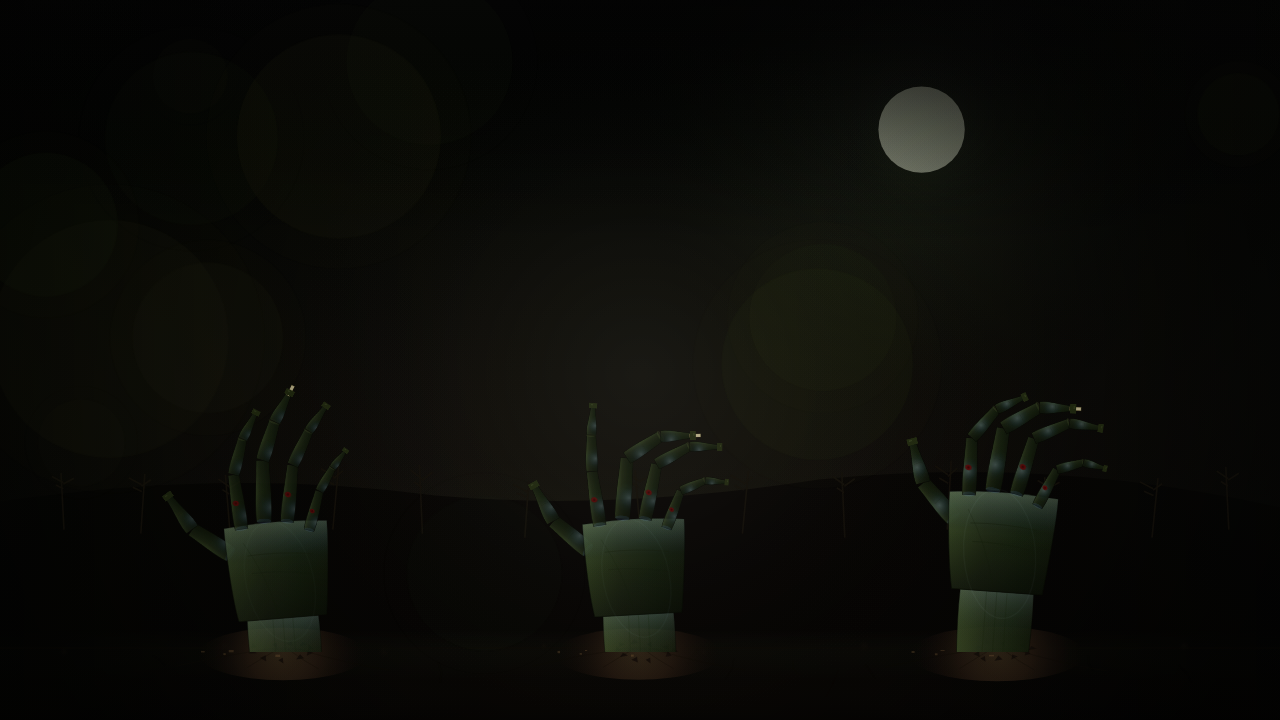
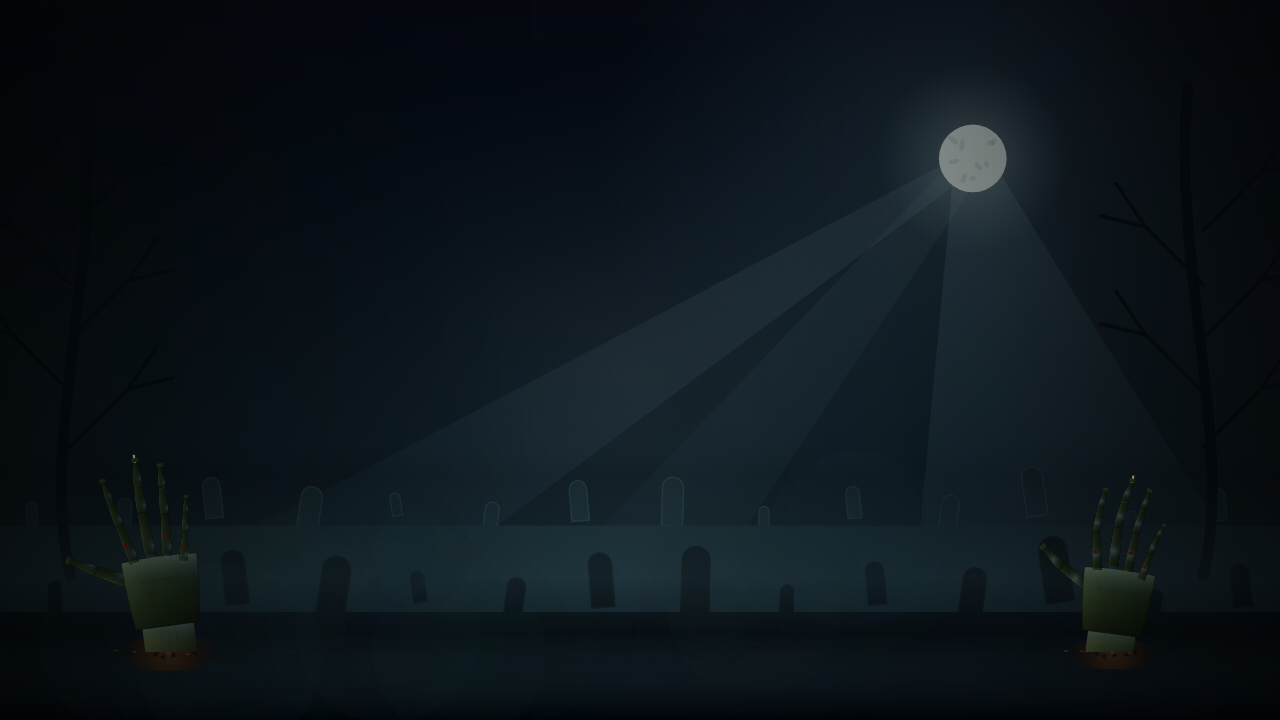
Backlight Zombie arena with moonlit cemetery scenery

diff --git a/game/js/render/background-renderer.js b/game/js/render/background-renderer.js
@@ -329,36 +329,36 @@ class BackgroundRenderer {
                 for (let i = 0; i < 12; i++) {
                     this.fogParticles.push({
                         x: Math.random() * W,
-                        y: Math.random() * H,
-                        size: Math.random() * 90 + 36,
+                        y: H * (0.72 + Math.random() * 0.20),
+                        size: Math.random() * 70 + 36,
                         speed: Math.random() * 3.2 + 0.4,
                         alpha: Math.random() * 0.10 + 0.03,
                         drift: (Math.random() - 0.5) * 0.35,
-                        fogHue: 62 + Math.random() * 26,
+                        fogHue: 185 + Math.random() * 15,
                         sprite: null,
                     });
                 }
                 this.lightLayers.push(this._makeLight('radial', {
-                    x: W * 0.72, y: H * 0.18,
+                    x: W * 0.76, y: H * 0.22,
                     radius: Math.min(W, H) * 0.34,
-                    color: 'rgba(190,215,170,0.06)',
+                    color: 'rgba(170,210,225,0.06)',
                     pulseSpeed: 0.28, pulseMagnitude: 0.05,
                 }));
                 this.lightLayers.push(this._makeLight('radial', {
                     x: W * 0.42, y: H * 0.72,
                     radius: Math.min(W, H) * 0.48,
-                    color: 'rgba(85,110,58,0.05)',
+                    color: 'rgba(75,120,140,0.05)',
                     pulseSpeed: 0.55, pulseMagnitude: 0.10,
                 }));
                 this.lightLayers.push(this._makeLight('linear', {
                     x1: 0, y1: H * 0.72, x2: 0, y2: H,
-                    color: 'rgba(74,96,46,0.06)',
+                    color: 'rgba(70,110,130,0.06)',
                 }));
 
-                [0.22, 0.50, 0.78].forEach((xf, i) => {
+                [0.13, 0.87].forEach((xf, i) => {
                     this.zombieHands.push({
                         xf: Math.max(0.08, Math.min(0.92, xf + (Math.random() - 0.5) * 0.02)),
-                        scale: 0.92 + Math.random() * 0.18 + i * 0.03,  // larger hands for detail
+                        scale: 0.64 + Math.random() * 0.12,  // frame the court, leaving the ball lane open
                         riseBase: 0.44 + Math.random() * 0.16,
                         riseAmp: 0.06 + Math.random() * 0.08,
                         riseSpeed: 0.22 + Math.random() * 0.12,
@@ -691,7 +691,7 @@ class BackgroundRenderer {
             const p = this.fogParticles[i];
             p.y += p.speed * dt;
             p.x += p.drift * dt;
-            if (p.y > H + p.size) { p.y = -p.size; p.x = Math.random() * W; }
+            if (p.y > H + p.size) { p.y = this.mode === 'zombie' ? H * 0.72 : -p.size; p.x = Math.random() * W; }
             if (p.x < -p.size) p.x = W + p.size;
             if (p.x > W + p.size) p.x = -p.size;
         }
@@ -1617,129 +1617,112 @@ class BackgroundRenderer {
 
         const zctx = this._zombieStaticCtx;
         if (!zctx) return null;
-        const horizonY = h * 0.68;
-
+        // All scenery and volumetric-looking light are baked on resize, never
+        // blurred or rebuilt in the frame loop. Keep the central ball lane dark.
         zctx.clearRect(0, 0, w, h);
-
         const sky = zctx.createLinearGradient(0, 0, 0, h);
-        sky.addColorStop(0, '#020301');
-        sky.addColorStop(0.18, '#060804');
-        sky.addColorStop(0.52, '#0f0d09');
-        sky.addColorStop(0.76, '#14100c');
-        sky.addColorStop(1, '#0c0a07');
+        sky.addColorStop(0, '#030710');
+        sky.addColorStop(0.62, '#10212a');
+        sky.addColorStop(1, '#030709');
         zctx.fillStyle = sky;
         zctx.fillRect(0, 0, w, h);
-
-        // ── Draw Moon in static layer ──
-        const moonX = w * 0.72;
-        const moonY = h * 0.18;
-        const moonRadius = Math.min(w, h) * 0.06;
-        zctx.fillStyle = '#e8e8d8';
-        zctx.beginPath();
-        zctx.arc(moonX, moonY, moonRadius, 0, Math.PI * 2);
-        zctx.fill();
-
-        const moonGlow = zctx.createRadialGradient(moonX, moonY, 0, moonX, moonY, Math.min(w, h) * 0.42);
-        moonGlow.addColorStop(0, 'rgba(185,210,160,0.22)');
-        moonGlow.addColorStop(0.25, 'rgba(148,166,125,0.12)');
-        moonGlow.addColorStop(0.65, 'rgba(90,110,68,0.05)');
-        moonGlow.addColorStop(1, 'transparent');
-        zctx.fillStyle = moonGlow;
+        const moonX = w * 0.76, moonY = h * 0.22;
+        const unit = Math.min(w, h);
+        const halo = zctx.createRadialGradient(moonX, moonY, unit * 0.025, moonX, moonY, unit * 0.52);
+        halo.addColorStop(0, 'rgba(194,228,235,0.42)');
+        halo.addColorStop(0.22, 'rgba(113,166,186,0.19)');
+        halo.addColorStop(1, 'rgba(64,112,140,0)');
+        zctx.fillStyle = halo;
         zctx.fillRect(0, 0, w, h);
-
-        const horizonGlow = zctx.createLinearGradient(0, horizonY - h * 0.08, 0, groundY + h * 0.08);
-        horizonGlow.addColorStop(0, 'transparent');
-        horizonGlow.addColorStop(0.4, 'rgba(50,66,36,0.14)');
-        horizonGlow.addColorStop(0.7, 'rgba(48,32,14,0.18)');
-        horizonGlow.addColorStop(1, 'rgba(15,10,5,0.35)');
-        zctx.fillStyle = horizonGlow;
-        zctx.fillRect(0, horizonY - h * 0.12, w, h - horizonY + h * 0.12);
-
-        const soil = zctx.createLinearGradient(0, groundY - 24, 0, h);
-        soil.addColorStop(0, 'rgba(30,22,12,0.65)');
-        soil.addColorStop(0.18, 'rgba(42,30,16,0.92)');
-        soil.addColorStop(0.65, '#181008');
-        soil.addColorStop(1, '#0b0805');
-        zctx.fillStyle = soil;
-        zctx.fillRect(0, groundY - 24, w, h - groundY + 24);
-
-        zctx.fillStyle = 'rgba(8,6,4,0.98)';
-        zctx.beginPath();
-        zctx.moveTo(0, horizonY + 12);
-        zctx.quadraticCurveTo(w * 0.18, horizonY - 22, w * 0.34, horizonY + 6);
-        zctx.quadraticCurveTo(w * 0.48, horizonY + 22, w * 0.64, horizonY - 10);
-        zctx.quadraticCurveTo(w * 0.82, horizonY - 34, w, horizonY + 18);
-        zctx.lineTo(w, h);
-        zctx.lineTo(0, h);
-        zctx.closePath();
-        zctx.fill();
-
-        // Front Fog
-        const frontFog = zctx.createLinearGradient(0, groundY - 18, 0, h);
-        frontFog.addColorStop(0, 'rgba(120,140,90,0)');
-        frontFog.addColorStop(0.24, 'rgba(84,102,60,0.07)');
-        frontFog.addColorStop(0.55, 'rgba(36,30,18,0.10)');
-        frontFog.addColorStop(1, 'rgba(10,8,6,0.26)');
-        zctx.fillStyle = frontFog;
-        zctx.fillRect(0, groundY - 18, w, h - groundY + 18);
-
-        // Vignette
-        const vig = zctx.createRadialGradient(w / 2, h / 2, h * 0.22, w / 2, h / 2, h * 0.92);
-        vig.addColorStop(0, 'transparent');
-        vig.addColorStop(1, 'rgba(0,0,0,0.82)');
-        zctx.fillStyle = vig;
-        zctx.fillRect(0, 0, w, h);
-
-        // Top Black gradient
-        const topBlack = zctx.createLinearGradient(0, 0, 0, h * 0.34);
-        topBlack.addColorStop(0, 'rgba(0,0,0,0.85)');
-        topBlack.addColorStop(0.7, 'rgba(0,0,0,0.3)');
-        topBlack.addColorStop(1, 'transparent');
-        zctx.fillStyle = topBlack;
-        zctx.fillRect(0, 0, w, h * 0.34);
-
-        // Static tree silhouettes
-        zctx.save();
-        zctx.strokeStyle = 'rgba(20,16,10,0.95)';
-        zctx.lineWidth = 1.6;
-        const treeX = [0.05, 0.11, 0.18, 0.26, 0.33, 0.41, 0.5, 0.58, 0.66, 0.74, 0.82, 0.9, 0.96];
-        for (let i = 0; i < treeX.length; i++) {
-            const x = treeX[i] * w;
-            const baseY = horizonY + 12 + (i % 3) * 4;
-            const hMul = 0.75 + (i % 5) * 0.08;
-            const trunkH = 38 * hMul;
-            const sway = (i % 2 === 0 ? -1 : 1) * (3 + (i % 4));
-
+        // Broad shafts share a single source behind the ruined treeline.
+        for (const [end, width, alpha] of [[0.14, 0.12, 0.10], [0.45, 0.07, 0.07], [0.86, 0.15, 0.14]]) {
+            const beam = zctx.createLinearGradient(moonX, moonY, w * end, groundY);
+            beam.addColorStop(0, `rgba(189,225,234,${alpha})`);
+            beam.addColorStop(0.75, `rgba(116,182,197,${alpha * 0.55})`);
+            beam.addColorStop(1, 'rgba(116,182,197,0)');
+            zctx.fillStyle = beam;
             zctx.beginPath();
-            zctx.moveTo(x, baseY + 28);
-            zctx.lineTo(x + sway, baseY - trunkH);
-            zctx.stroke();
-
-            zctx.beginPath();
-            zctx.moveTo(x + sway * 0.2, baseY - trunkH * 0.66);
-            zctx.lineTo(x - 12, baseY - trunkH * 0.88);
-            zctx.moveTo(x + sway * 0.2, baseY - trunkH * 0.62);
-            zctx.lineTo(x + 10, baseY - trunkH * 0.82);
-            zctx.moveTo(x + sway * 0.25, baseY - trunkH * 0.45);
-            zctx.lineTo(x - 8, baseY - trunkH * 0.58);
-            zctx.stroke();
-        }
-
-        // Static ground bumps
-        for (let i = 0; i < 8; i++) {
-            const x = (i * 0.125 + 0.05) * w;
-            const y = groundY + (i % 2 === 0 ? 4 : -2);
-            const size = 6 + (i % 3) * 2;
-            const clump = zctx.createRadialGradient(x, y, 0, x, y, size);
-            clump.addColorStop(0, 'rgba(25,18,10,0.25)');
-            clump.addColorStop(1, 'transparent');
-            zctx.fillStyle = clump;
-            zctx.beginPath();
-            zctx.arc(x, y, size, 0, Math.PI * 2);
+            zctx.moveTo(moonX - unit * 0.025, moonY);
+            zctx.lineTo(w * (end - width), groundY);
+            zctx.lineTo(w * (end + width), groundY);
+            zctx.lineTo(moonX + unit * 0.025, moonY);
             zctx.fill();
         }
-
-        zctx.restore();
+        zctx.fillStyle = '#d7e5df';
+        zctx.beginPath();
+        zctx.arc(moonX, moonY, unit * 0.047, 0, Math.PI * 2);
+        zctx.fill();
+        // Deterministic surface markings; no random flicker between resizes.
+        zctx.fillStyle = 'rgba(75,110,123,0.16)';
+        for (let i = 0; i < 9; i++) {
+            zctx.beginPath();
+            zctx.ellipse(moonX + Math.sin(i * 7) * unit * 0.029,
+                moonY + Math.cos(i * 5) * unit * 0.028,
+                unit * (0.004 + i * 0.0006), unit * 0.0035, i, 0, Math.PI * 2);
+            zctx.fill();
+        }
+        // Two silhouette depths: far graves are lifted by the backlight;
+        // nearer headstones and bare branches cut sharply across it.
+        for (let layer = 0; layer < 2; layer++) {
+            const baseY = h * (0.73 + layer * 0.12);
+            zctx.fillStyle = layer ? '#050c10' : '#172b33';
+            zctx.strokeStyle = layer ? '#09151b' : '#253d46';
+            zctx.lineWidth = Math.max(1, unit * 0.002);
+            for (let i = 0; i < 14; i++) {
+                const x = w * ((i + 0.35 + layer * 0.25) / 14);
+                const height = unit * (0.032 + (i % 4) * 0.012) * (1 + layer * 0.35);
+                const width = height * 0.43;
+                zctx.save();
+                zctx.translate(x, baseY + Math.sin(i * 2.7) * h * 0.014);
+                zctx.rotate(Math.sin(i * 9) * 0.15);
+                zctx.beginPath();
+                zctx.moveTo(-width / 2, 0);
+                zctx.lineTo(-width / 2, -height + width / 2);
+                zctx.arc(0, -height + width / 2, width / 2, Math.PI, Math.PI * 2);
+                zctx.lineTo(width / 2, 0);
+                zctx.closePath();
+                zctx.fill();
+                // Thin cold edge, no shadowBlur or extra compositing layer.
+                zctx.stroke();
+                zctx.restore();
+            }
+            zctx.fillRect(0, baseY, w, h - baseY);
+        }
+        // Crooked trees frame the edges rather than crossing the ball lane.
+        for (const [xf, lean] of [[0.055, 1], [0.94, -1]]) {
+            const x = w * xf, y = h * 0.8;
+            zctx.strokeStyle = '#060e14';
+            zctx.lineCap = 'round';
+            zctx.lineWidth = unit * 0.015;
+            zctx.beginPath();
+            zctx.moveTo(x, y);
+            zctx.bezierCurveTo(x - lean * w * 0.025, h * 0.61, x + lean * w * 0.025, h * 0.38, x + lean * w * 0.012, h * 0.12);
+            zctx.stroke();
+            zctx.lineWidth = unit * 0.005;
+            for (let i = 0; i < 5; i++) {
+                const by = h * (0.24 + i * 0.075);
+                const side = i % 2 ? -1 : 1;
+                zctx.beginPath();
+                zctx.moveTo(x, by + h * 0.08);
+                zctx.lineTo(x + side * w * 0.045, by);
+                zctx.lineTo(x + side * w * 0.068, by - h * 0.06);
+                zctx.moveTo(x + side * w * 0.045, by);
+                zctx.lineTo(x + side * w * 0.08, by - h * 0.015);
+                zctx.stroke();
+            }
+        }
+        const mist = zctx.createLinearGradient(0, h * 0.66, 0, h);
+        mist.addColorStop(0, 'rgba(115,177,189,0)');
+        mist.addColorStop(0.42, 'rgba(115,177,189,0.20)');
+        mist.addColorStop(0.65, 'rgba(76,127,141,0.08)');
+        mist.addColorStop(1, 'rgba(0,4,8,0.8)');
+        zctx.fillStyle = mist;
+        zctx.fillRect(0, h * 0.66, w, h * 0.34);
+        const vignette = zctx.createRadialGradient(w * 0.5, h * 0.45, unit * 0.2, w * 0.5, h * 0.45, Math.max(w, h) * 0.65);
+        vignette.addColorStop(0, 'rgba(0,3,9,0.20)');
+        vignette.addColorStop(1, 'rgba(0,2,6,0.78)');
+        zctx.fillStyle = vignette;
+        zctx.fillRect(0, 0, w, h);
         this._zombieStaticInitialized = true;
         return this._zombieStaticCanvas;
     }
@@ -1749,9 +1732,9 @@ class BackgroundRenderer {
         const staticLayer = this._ensureZombieStaticLayer(w, h, groundY);
         if (staticLayer) ctx.drawImage(staticLayer, 0, 0);
 
-        // Moon coordinates for lighting (subtle movement)
-        const moonX = w * (0.72 + Math.sin(this.time * 0.06) * 0.012);
-        const moonY = h * (0.18 + Math.sin(this.time * 0.05) * 0.008);
+        // Match the cached moon so hand lighting stays anchored to its source.
+        const moonX = w * 0.76;
+        const moonY = h * 0.22;
 
         if (areParticleEffectsEnabled()) {
             for (let i = 0; i < this.fogParticles.length; i++) {
@@ -1809,7 +1792,7 @@ class BackgroundRenderer {
         ctx.restore();
 
         this.renderPeripheralLightRigs(ctx, w, h,
-            'rgba(70,90,50,ALPHA)', 'rgba(100,110,80,ALPHA)', 0.45);
+            'rgba(65,105,125,ALPHA)', 'rgba(120,165,180,ALPHA)', 0.45);
         this.applyGameplayVisibilityPass(ctx, w, h, 0.05, 0.4);
     }
 
